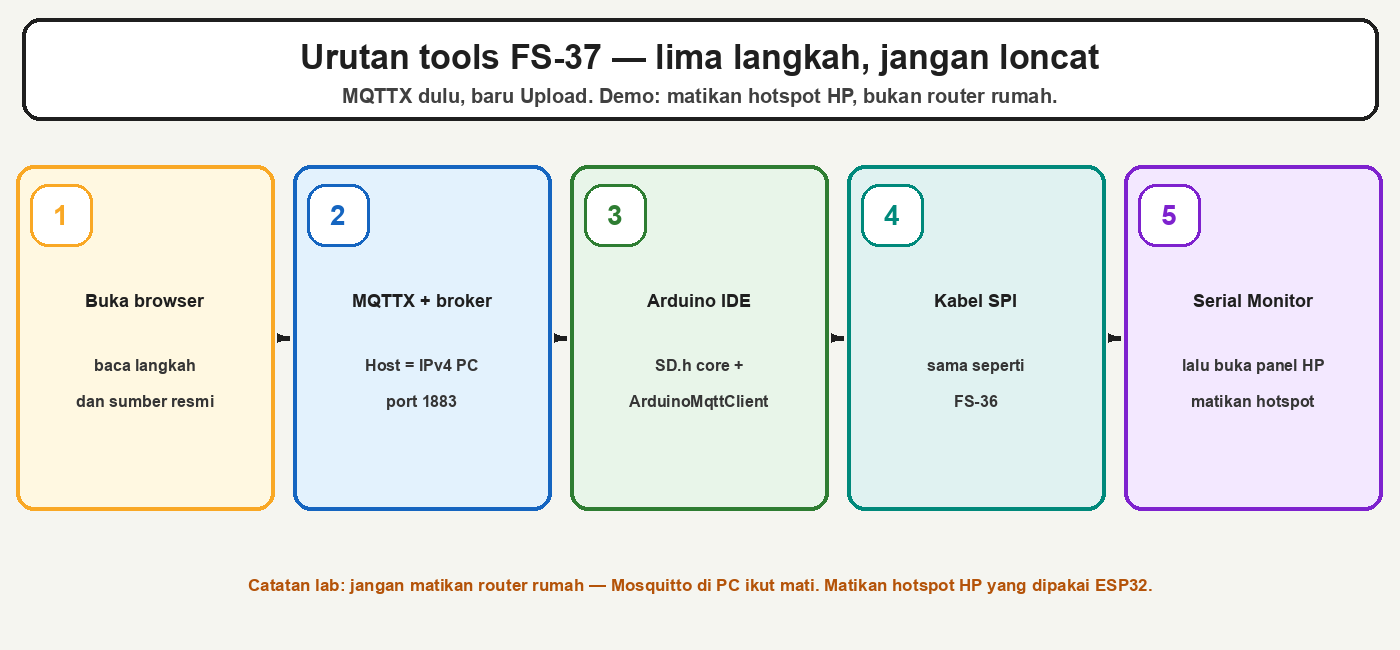
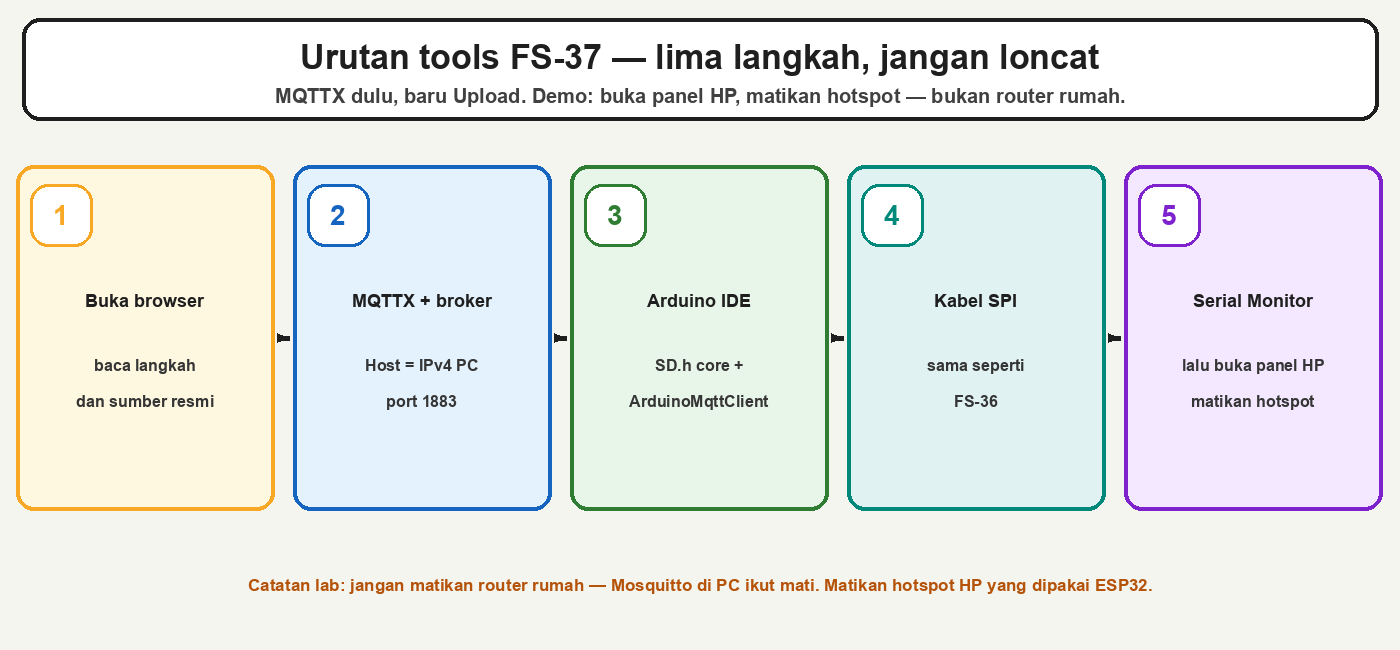
fix(fsiot): align FS-37 Serial JSON and tools-first copy
The Serial illustration now matches the sketch JSON backfill, Terkirim is named as Serial not MQTTX, and the five-step caption opens the phone panel first.

Changed region(s): [[0.1843, 0.1231, 0.7986, 0.1846]]

diff --git a/database/seeders/Article107Seeder.php b/database/seeders/Article107Seeder.php
@@ -316,7 +316,7 @@ class Article107Seeder extends Seeder
     private function body(): string
     {
         $sketch = htmlspecialchars($this->sketch(), ENT_QUOTES, 'UTF-8');
-        $tools = $this->figure('fs37-tools-order.png', 'Urutan lima langkah: browser, MQTTX dan broker, Arduino IDE, kabel SPI, lalu Serial Monitor', '<strong>Urutan meja kerja (lima langkah):</strong> browser → MQTTX + Mosquitto (Host = IPv4 PC) → Arduino IDE → kabel SPI seperti FS-36 → Serial Monitor, lalu matikan hotspot HP. Diagram buatan Koding Indonesia (FS-37).');
+        $tools = $this->figure('fs37-tools-order.png', 'Urutan lima langkah: browser, MQTTX dan broker, Arduino IDE, kabel SPI, lalu Serial Monitor', '<strong>Urutan meja kerja (lima langkah):</strong> browser → MQTTX + Mosquitto (Host = IPv4 PC) → Arduino IDE → kabel SPI seperti FS-36 → Serial Monitor, lalu buka panel HP. Diagram buatan Koding Indonesia (FS-37).');
         $flow = $this->figure('fs37-offline-online.png', 'Alur kiri ke kanan: hotspot putus, pending.csv, hotspot nyala, MQTTX terisi from_sd true', '<strong>Gambar utama — alur.</strong> Baca dari kiri ke kanan: putus → simpan di <code>pending.csv</code> → nyambung → MQTTX terisi. Diagram buatan Koding Indonesia (FS-37).');
         $ram = $this->figure('fs37-ram-vs-sd.png', 'Perbandingan antrian di RAM yang cepat penuh versus antrian di pending.csv', '<strong>RAM kecil. Kartu yang menahan antrian.</strong> Lab ini tidak menumpuk sampel di memori. Diagram buatan Koding Indonesia (FS-37).');
         $pending = $this->figure('fs37-pending-csv.png', 'Dua berkas: pending.csv untuk antrian belum terkirim dan log.csv sebagai arsip', '<strong>Dua berkas.</strong> <code>pending.csv</code> hanya baris yang belum ke broker. <code>log.csv</code> arsip semua sampel. Diagram buatan Koding Indonesia (FS-37).');
@@ -331,11 +331,11 @@ class Article107Seeder extends Seeder
         $cardPhoto = $this->figure('kit-microsd-card.jpg', 'Contoh rupa kartu microSD dan adapter SD plastik untuk slot laptop', '<strong>Contoh rupa kartu saja.</strong> Adapter plastik untuk slot laptop, <strong>bukan</strong> modul SPI. <strong>Jangan menyambungkannya ke pin ESP32.</strong> <strong>Jangan menyalin urutan kaki dari foto.</strong> Sumber: <a href="https://commons.wikimedia.org/wiki/File:2015_Karta_microSD_z_adapterem_SD.jpg" target="_blank" rel="noopener noreferrer">2015 Karta microSD z adapterem SD</a> · Jacek Halicki · Wikimedia Commons · Creative Commons Attribution-Share Alike 4.0.');
         $dhtPhoto = $this->figure('kit-dht22.jpg', 'Contoh rupa modul DHT22 AM2302 dengan pin DAT, VCC, dan GND', '<strong>Contoh rupa sensor.</strong> <strong>Jangan menyalin urutan kaki dari foto.</strong> Wiring tetap VCC → 3V3, DATA atau DAT → GPIO 4, GND → GND. Sumber: <a href="https://commons.wikimedia.org/wiki/File:DHT_22_Sensor.jpg" target="_blank" rel="noopener noreferrer">AM2302 DHT22 Sensor</a> · L293D · Wikimedia Commons · Creative Commons Attribution-Share Alike 4.0.');
         $install = $this->stepsCard([
-            ['title' => 'Buka browser', 'text' => 'Pakai Chrome, Firefox, Edge, atau Safari. Siapkan artikel ini. Jangan Upload sketch dulu.'],
-            ['title' => 'Buka MQTTX setelah broker berjalan', 'text' => 'Mosquitto dulu, seperti FS-34: jendela tetap terbuka dan terlihat <code>1883</code>. Baru kemudian MQTTX. Host = <strong>IPv4 PC</strong> (bukan <code>127.0.0.1</code>), Port <code>1883</code>, subscribe <code>kodingindonesia/fsiot/esp32-meja-01/telemetry</code>.'],
-            ['title' => 'Buka Arduino IDE', 'text' => '<code>SD.h</code> sudah di core ESP32. <code>ArduinoMqttClient</code>, ArduinoJson, dan DHT biasanya sudah ada dari FS-34. Jika Verify mengeluh, klik ikon tiga buku di bilah kiri. Itu satu-satunya jalur yang dipakai hari ini.'],
+            ['title' => 'Buka browser', 'text' => 'Pakai Chrome, Firefox, Edge, atau Safari. Siapkan artikel ini. Jangan tekan Upload di Arduino IDE dulu.'],
+            ['title' => 'Buka MQTTX setelah broker berjalan', 'text' => 'Mosquitto dulu, seperti FS-34: jendela tetap terbuka dan terlihat <code>1883</code>. Baru kemudian MQTTX. Host = <strong>IPv4 PC</strong> (bukan <code>127.0.0.1</code>), Port <code>1883</code>, langganan topik (tombol Subscribe) <code>kodingindonesia/fsiot/esp32-meja-01/telemetry</code>.'],
+            ['title' => 'Buka Arduino IDE', 'text' => '<code>SD.h</code> sudah di core ESP32. <code>ArduinoMqttClient</code>, ArduinoJson, dan DHT biasanya sudah ada dari FS-34. Jika tombol Verify mengeluh, klik ikon tiga buku di bilah kiri. Itu satu-satunya jalur yang dipakai hari ini.'],
             ['title' => 'Periksa kabel SPI dan DHT22', 'text' => 'Sama seperti FS-36. Cabut USB dulu. CS → GPIO 5, SCK → GPIO 18, MISO → GPIO 19, MOSI → GPIO 23, DHT22 DATA → GPIO 4. Jangan colok AC 220V. Relay GPIO 26 <strong>tidak</strong> dipakai hari ini.'],
-            ['title' => 'Upload, Serial Monitor, lalu buka panel HP', 'text' => 'Tools → Serial Monitor, baud 115200. Setelah ada <code>Terkirim:</code> di MQTTX, <strong>buka dulu panel atas HP</strong> (geser dari atas, atau buka Pengaturan). Ketuk Hotspot sampai mati — bukan router rumah, bukan Wi-Fi laptop. Nyalakan lagi, cari <code>Kirim ulang dari kartu:</code>.'],
+            ['title' => 'Upload, Serial Monitor, lalu buka panel HP', 'text' => 'Tools → Serial Monitor, baud 115200. Setelah Serial menulis <code>Terkirim:</code> dan MQTTX menampilkan JSON, <strong>buka dulu panel atas HP</strong> (geser dari atas, atau buka Pengaturan). Ketuk Hotspot sampai mati — bukan router rumah, bukan Wi-Fi laptop. Nyalakan lagi, cari <code>Kirim ulang dari kartu:</code>.'],
         ], '<strong>Cara menguji hari ini:</strong> bukti sukses = MQTTX sempat sepi saat hotspot mati, lalu terisi pesan <code>from_sd: true</code> setelah hotspot nyala, dan Serial menulis <code>Kirim ulang dari kartu:</code>.');
 
         return <<<'HTML'
@@ -360,7 +360,7 @@ class Article107Seeder extends Seeder
 <li><strong>Antrian</strong> — baris yang menunggu giliran ke broker. Di lab ini tempatnya <code>pending.csv</code>.</li>
 <li><strong><code>pending.csv</code></strong> — berkas di kartu: hanya data yang belum terkirim.</li>
 <li><strong><code>log.csv</code></strong> — arsip semua sampel, kolom terakhir <code>mqtt</code> atau <code>kartu</code>.</li>
-<li><strong><code>from_sd</code></strong> — field JSON. <code>false</code> = langsung dari sensor. <code>true</code> = kiriman ulang dari kartu.</li>
+<li><strong><code>from_sd</code></strong> — isian JSON. <code>false</code> = langsung dari sensor. <code>true</code> = kiriman ulang dari kartu.</li>
 <li><strong>Hotspot HP</strong> — Wi-Fi yang dipakai ESP32 hari ini. PC tetap di Wi-Fi rumah agar Mosquitto tidak ikut mati.</li>
 <li><strong>RAM tak terbatas</strong> — kesalahan yang sering terjadi: menumpuk array di memori sampai ESP32 mentok atau reset. Lab ini tidak memakai cara itu.</li>
 </ul>
@@ -402,7 +402,7 @@ listener_allow_anonymous true</code></pre>
 <ol>
 <li>Klik <em>New Connection</em>, nama <code>FS37 store-forward LAN</code>.</li>
 <li>Host = IPv4 PC, Port = <code>1883</code>. Bukan <code>127.0.0.1</code>.</li>
-<li>Connect, lalu subscribe:</li>
+<li>Klik <em>Connect</em>, lalu langganan (Subscribe) ke topik:</li>
 </ol>
 <pre><code>kodingindonesia/fsiot/esp32-meja-01/telemetry</code></pre>
 <p><strong>Hasil yang dicari:</strong> MQTTX berstatus tersambung. Belum ada JSON sampai ESP32 mengirim.</p>
@@ -410,7 +410,7 @@ listener_allow_anonymous true</code></pre>
 <h2>Library Arduino IDE</h2>
 <p><strong>Buka dulu Arduino IDE.</strong> Pilih papan <strong>ESP32</strong>, bukan UNO.</p>
 <p><code>SD.h</code> dan <code>SPI.h</code> sudah termasuk core. <strong>Jangan</strong> memasang library SD untuk papan UNO.</p>
-<p>Library <strong>ArduinoMqttClient</strong>, <strong>ArduinoJson</strong>, dan <strong>DHT sensor library</strong> (Adafruit) biasanya sudah ada dari FS-34. Jika Verify mengeluh file header hilang: di bilah kiri, klik ikon tiga buku (Library Manager). Itu satu-satunya jalur yang dipakai hari ini. Jangan memakai menu lama <em>Tools → Manage Libraries</em>. Cari nama library, papan ESP32, lalu INSTALL jika belum ada.</p>
+<p>Library <strong>ArduinoMqttClient</strong>, <strong>ArduinoJson</strong>, dan <strong>DHT sensor library</strong> (Adafruit) biasanya sudah ada dari FS-34. Jika tombol Verify mengeluh file header hilang: di bilah kiri, klik ikon tiga buku (Library Manager). Itu satu-satunya jalur yang dipakai hari ini. Jangan memakai menu lama <em>Tools → Manage Libraries</em>. Cari nama library, papan ESP32, lalu INSTALL jika belum ada.</p>
 <p>Menu <em>Tools → Serial Monitor</em> tetap untuk melihat tulisan Serial; itu <strong>bukan</strong> Library Manager. Rujukan: <a href="https://docs.arduino.cc/software/ide-v2/tutorials/ide-v2-installing-a-library/" target="_blank" rel="noopener noreferrer">Installing libraries — Arduino IDE 2</a>, Arduino S.r.l., Creative Commons Attribution-Share Alike 4.0. <a href="https://github.com/arduino-libraries/ArduinoMqttClient" target="_blank" rel="noopener noreferrer">ArduinoMqttClient</a>. <a href="https://docs.espressif.com/projects/arduino-esp32/en/latest/api/sd.html" target="_blank" rel="noopener noreferrer">Espressif SD API</a>.</p>
 
 <h2>Pasang kabel — sama seperti FS-36</h2>
@@ -447,7 +447,7 @@ HTML
 HTML
             .$serial.$hotspot.<<<'HTML'
 <ol>
-<li>Verify dan Upload. Buka <strong>Tools → Serial Monitor</strong>, baud <strong>115200</strong>.</li>
+<li>Tekan Verify, lalu Upload. Buka <strong>Tools → Serial Monitor</strong>, baud <strong>115200</strong>.</li>
 <li>Cari <code>Kartu siap. Antrian di /pending.csv</code> dan <code>Antrian hanya di kartu, bukan RAM tak terbatas.</code></li>
 <li>Cari <code>MQTT tersambung. Mengirim antrian kartu.</code> lalu <code>Terkirim:</code>.</li>
 <li>Pastikan MQTTX menampilkan JSON <code>from_sd</code> bernilai <code>false</code>.</li>
@@ -467,7 +467,7 @@ HTML
 <li><strong>ESP32 memakai <code>127.0.0.1</code>.</strong> Ganti IPv4 PC dari <code>ipconfig</code>.</li>
 <li><strong>Kartu tidak terbaca.</strong> CS = GPIO 5, FAT32, GND bersama — seperti FS-36.</li>
 <li><strong>Hotspot memblokir LAN.</strong> Sambungkan PC ke hotspot yang sama, catat IPv4 baru, perbarui conf Mosquitto dan sketch.</li>
-<li><strong>MQTTX Host salah.</strong> Host = IPv4 PC, Port <code>1883</code>, topic persis seperti sketch.</li>
+<li><strong>MQTTX Host salah.</strong> Host = IPv4 PC, Port <code>1883</code>, topik persis seperti di sketch.</li>
 </ol>
 
 <h2 id="fsiot-forward-checklist">Checklist sebelum FS-38</h2>
@@ -534,7 +534,7 @@ HTML;
     private function bodyEn(): string
     {
         $sketch = htmlspecialchars($this->sketch(), ENT_QUOTES, 'UTF-8');
-        $tools = $this->figure('fs37-tools-order.png', 'Five-step order: browser, MQTTX and broker, Arduino IDE, SPI cables, then Serial Monitor', '<strong>Desk order (five steps):</strong> browser → MQTTX + Mosquitto (Host = PC IPv4) → Arduino IDE → SPI cables as in FS-36 → Serial Monitor, then turn off the phone hotspot. Diagram by Koding Indonesia (FS-37).');
+        $tools = $this->figure('fs37-tools-order.png', 'Five-step order: browser, MQTTX and broker, Arduino IDE, SPI cables, then Serial Monitor', '<strong>Desk order (five steps):</strong> browser → MQTTX + Mosquitto (Host = PC IPv4) → Arduino IDE → SPI cables as in FS-36 → Serial Monitor, then open the phone panel. Diagram by Koding Indonesia (FS-37).');
         $flow = $this->figure('fs37-offline-online.png', 'Left-to-right flow: hotspot off, pending.csv, hotspot on, MQTTX fills with from_sd true', '<strong>Main figure — flow.</strong> Read left to right: disconnect → store in <code>pending.csv</code> → reconnect → MQTTX fills. Diagram by Koding Indonesia (FS-37).');
         $ram = $this->figure('fs37-ram-vs-sd.png', 'Comparison of a RAM queue that fills quickly versus a pending.csv queue', '<strong>RAM is small. The card holds the queue.</strong> This lab does not pile samples in memory. Diagram by Koding Indonesia (FS-37).');
         $pending = $this->figure('fs37-pending-csv.png', 'Two files: pending.csv for unsent rows and log.csv as the archive', '<strong>Two files.</strong> <code>pending.csv</code> holds rows not yet on the broker. <code>log.csv</code> archives every sample. Diagram by Koding Indonesia (FS-37).');
@@ -549,11 +549,11 @@ HTML;
         $cardPhoto = $this->figure('kit-microsd-card.jpg', 'Example microSD card and plastic SD adapter for a laptop slot', '<strong>Appearance example only.</strong> The plastic adapter is for a laptop slot, <strong>not</strong> an SPI module. <strong>Do not wire it to ESP32 pins.</strong> <strong>Do not copy pin order from the photo.</strong> Source: <a href="https://commons.wikimedia.org/wiki/File:2015_Karta_microSD_z_adapterem_SD.jpg" target="_blank" rel="noopener noreferrer">2015 Karta microSD z adapterem SD</a> · Jacek Halicki · Wikimedia Commons · Creative Commons Attribution-Share Alike 4.0.');
         $dhtPhoto = $this->figure('kit-dht22.jpg', 'Example DHT22 AM2302 module with DAT, VCC, and GND pins', '<strong>Sensor appearance only.</strong> <strong>Do not copy pin order from the photo.</strong> Wiring is still VCC → 3V3, DATA or DAT → GPIO 4, GND → GND. Source: <a href="https://commons.wikimedia.org/wiki/File:DHT_22_Sensor.jpg" target="_blank" rel="noopener noreferrer">AM2302 DHT22 Sensor</a> · L293D · Wikimedia Commons · Creative Commons Attribution-Share Alike 4.0.');
         $install = $this->stepsCard([
-            ['title' => 'Open a browser', 'text' => 'Use Chrome, Firefox, Edge, or Safari. Keep this guide ready. Do not Upload a sketch yet.'],
-            ['title' => 'Open MQTTX after the broker is running', 'text' => 'Mosquitto first, as in FS-34: keep the window open and look for <code>1883</code>. Only then MQTTX. Host = <strong>PC IPv4</strong> (not <code>127.0.0.1</code>), Port <code>1883</code>, subscribe <code>kodingindonesia/fsiot/esp32-meja-01/telemetry</code>.'],
-            ['title' => 'Open Arduino IDE', 'text' => '<code>SD.h</code> already ships in the ESP32 core. ArduinoMqttClient, ArduinoJson, and DHT are usually already there from FS-34. If Verify complains, click the three-book icon in the left bar. That is the only path used today.'],
+            ['title' => 'Open a browser', 'text' => 'Use Chrome, Firefox, Edge, or Safari. Keep this guide ready. Do not click Upload in Arduino IDE yet.'],
+            ['title' => 'Open MQTTX after the broker is running', 'text' => 'Mosquitto first, as in FS-34: keep the window open and look for <code>1883</code>. Only then MQTTX. Host = <strong>PC IPv4</strong> (not <code>127.0.0.1</code>), Port <code>1883</code>, subscribe (the Subscribe button) to <code>kodingindonesia/fsiot/esp32-meja-01/telemetry</code>.'],
+            ['title' => 'Open Arduino IDE', 'text' => '<code>SD.h</code> already ships in the ESP32 core. ArduinoMqttClient, ArduinoJson, and DHT are usually already there from FS-34. If the Verify button complains, click the three-book icon in the left bar. That is the only path used today.'],
             ['title' => 'Check the SPI and DHT22 wiring', 'text' => 'Same as FS-36. Unplug USB first. CS → GPIO 5, SCK → GPIO 18, MISO → GPIO 19, MOSI → GPIO 23, DHT22 DATA → GPIO 4. Do not connect AC mains. The GPIO 26 relay is <strong>not</strong> used today.'],
-            ['title' => 'Upload, Serial Monitor, then open the phone panel', 'text' => 'Tools → Serial Monitor, baud 115200. After <code>Terkirim:</code> appears in MQTTX, <strong>open the phone panel first</strong> (swipe down, or open Settings). Tap Hotspot off — not the home router, not laptop Wi-Fi. Turn it back on and look for <code>Kirim ulang dari kartu:</code>.'],
+            ['title' => 'Upload, Serial Monitor, then open the phone panel', 'text' => 'Tools → Serial Monitor, baud 115200. After Serial prints <code>Terkirim:</code> and MQTTX shows JSON, <strong>open the phone panel first</strong> (swipe down, or open Settings). Tap Hotspot off — not the home router, not laptop Wi-Fi. Turn it back on and look for <code>Kirim ulang dari kartu:</code>.'],
         ], '<strong>How to test today:</strong> success = MQTTX goes quiet while the hotspot is off, then fills with <code>from_sd: true</code> after the hotspot returns, and Serial prints <code>Kirim ulang dari kartu:</code>.');
 
         return <<<'HTML'
@@ -620,7 +620,7 @@ listener_allow_anonymous true</code></pre>
 <ol>
 <li>Click <em>New Connection</em>, name <code>FS37 store-forward LAN</code>.</li>
 <li>Host = PC IPv4, Port = <code>1883</code>. Not <code>127.0.0.1</code>.</li>
-<li>Connect, then subscribe:</li>
+<li>Click <em>Connect</em>, then subscribe to the topic:</li>
 </ol>
 <pre><code>kodingindonesia/fsiot/esp32-meja-01/telemetry</code></pre>
 <p><strong>What to look for:</strong> MQTTX shows connected. There is no JSON yet until the ESP32 sends.</p>
@@ -628,7 +628,7 @@ listener_allow_anonymous true</code></pre>
 <h2>Arduino IDE libraries</h2>
 <p><strong>Open Arduino IDE first.</strong> Choose an <strong>ESP32</strong> board, not an UNO.</p>
 <p><code>SD.h</code> and <code>SPI.h</code> already ship in the core. <strong>Do not</strong> install an SD library for an UNO board.</p>
-<p><strong>ArduinoMqttClient</strong>, <strong>ArduinoJson</strong>, and Adafruit <strong>DHT sensor library</strong> are usually already there from FS-34. If Verify complains about a missing header: click the three-book icon (Library Manager) in the left bar. That is the only path used today. Do not use the old <em>Tools → Manage Libraries</em> menu. Search the library name, ESP32 board, then INSTALL if needed.</p>
+<p><strong>ArduinoMqttClient</strong>, <strong>ArduinoJson</strong>, and Adafruit <strong>DHT sensor library</strong> are usually already there from FS-34. If the Verify button complains about a missing header: click the three-book icon (Library Manager) in the left bar. That is the only path used today. Do not use the old <em>Tools → Manage Libraries</em> menu. Search the library name, ESP32 board, then INSTALL if needed.</p>
 <p><em>Tools → Serial Monitor</em> is still for Serial text; it is <strong>not</strong> Library Manager. References: <a href="https://docs.arduino.cc/software/ide-v2/tutorials/ide-v2-installing-a-library/" target="_blank" rel="noopener noreferrer">Installing libraries — Arduino IDE 2</a>, Arduino S.r.l., Creative Commons Attribution-Share Alike 4.0. <a href="https://github.com/arduino-libraries/ArduinoMqttClient" target="_blank" rel="noopener noreferrer">ArduinoMqttClient</a>. <a href="https://docs.espressif.com/projects/arduino-esp32/en/latest/api/sd.html" target="_blank" rel="noopener noreferrer">Espressif SD API</a>.</p>
 
 <h2>Wire the cables — same as FS-36</h2>
@@ -665,7 +665,7 @@ HTML
 HTML
             .$serial.$hotspot.<<<'HTML'
 <ol>
-<li>Verify and Upload. Open <strong>Tools → Serial Monitor</strong>, baud <strong>115200</strong>.</li>
+<li>Click Verify, then Upload. Open <strong>Tools → Serial Monitor</strong>, baud <strong>115200</strong>.</li>
 <li>Look for <code>Kartu siap. Antrian di /pending.csv</code> and <code>Antrian hanya di kartu, bukan RAM tak terbatas.</code></li>
 <li>Look for <code>MQTT tersambung. Mengirim antrian kartu.</code> then <code>Terkirim:</code>.</li>
 <li>Confirm MQTTX shows JSON with <code>from_sd</code> equal to <code>false</code>.</li>

diff --git a/scripts/audit-article107.php b/scripts/audit-article107.php
@@ -78,6 +78,9 @@ check107('MQTTX connection name is set', str_contains($body, 'FS37 store-forward
 check107('queue lives on pending.csv not RAM', str_contains($source, 'PENDING_PATH[] = "/pending.csv"') && str_contains($source, 'MAX_FLUSH_PER_LOOP = 5') && str_contains($body, 'bukan RAM tak terbatas') && str_contains($bodyEn, 'not an unbounded RAM array'));
 check107('JSON marks live vs backfill', str_contains($source, 'from_sd') && str_contains($body, 'from_sd: true') && str_contains($body, 'from_sd: false'));
 check107('Serial needles exist', str_contains($source, 'Kartu siap. Antrian di /pending.csv') && str_contains($source, 'Antrian hanya di kartu, bukan RAM tak terbatas.') && str_contains($source, 'MQTT tersambung. Mengirim antrian kartu.') && str_contains($source, 'Terkirim:') && str_contains($source, 'Wi-Fi putus. Disimpan ke pending.csv') && str_contains($source, 'Kirim ulang dari kartu:') && str_contains($source, 'Kartu tidak terbaca. Periksa CS=GPIO 5, format FAT32, dan GND bersama.'));
+check107('Serial illustration shows JSON backfill', str_contains($assets, 'Kirim ulang dari kartu: {"from_sd":true'));
+check107('Terkirim is Serial text not MQTTX', ! str_contains($body, 'Terkirim:</code> di MQTTX') && ! str_contains($bodyEn, 'appears in MQTTX'));
+check107('tools caption opens the phone panel', str_contains($body, 'lalu buka panel HP') && str_contains($bodyEn, 'then open the phone panel'));
 check107('failed mount message is concrete', str_contains($body, 'Kartu tidak terbaca. Periksa CS=GPIO 5, format FAT32, dan GND bersama.'));
 check107('FAT32 is required', str_contains($body, 'FAT32') && str_contains($bodyEn, 'FAT32'));
 check107('official sources are cited', str_contains($body, 'docs.espressif.com/projects/arduino-esp32/en/latest/api/sd.html') && str_contains($body, 'github.com/arduino-libraries/ArduinoMqttClient') && str_contains($body, 'arduinojson.org') && str_contains($body, 'adafruit/DHT-sensor-library') && str_contains($body, 'mqttx.app') && str_contains($body, 'mosquitto.org/man/mosquitto-conf-5.html'));

diff --git a/scripts/gen-fs37-assets.py b/scripts/gen-fs37-assets.py
@@ -72,7 +72,7 @@ print('fs37-cover-forward.webp', image.size)
 # Tools order
 image = Image.new('RGB', (1400, 650), '#f5f5f0')
 draw = ImageDraw.Draw(image)
-header(draw, 1400, 'Urutan tools FS-37 — lima langkah, jangan loncat', 'MQTTX dulu, baru Upload. Demo: matikan hotspot HP, bukan router rumah.')
+header(draw, 1400, 'Urutan tools FS-37 — lima langkah, jangan loncat', 'MQTTX dulu, baru Upload. Demo: buka panel HP, matikan hotspot — bukan router rumah.')
 steps = [
     ('1', 'Buka browser', 'baca langkah\ndan sumber resmi', '#fff8e1', '#f9a825'),
     ('2', 'MQTTX + broker', 'Host = IPv4 PC\nport 1883', '#e3f2fd', '#1565c0'),
@@ -178,7 +178,7 @@ lines = [
     ('#dbeafe', '#1d4ed8', 'MQTT tersambung. Mengirim antrian kartu.'),
     ('#ecfdf5', '#166534', 'Terkirim: {"from_sd":false,"temperature_c":27.4}'),
     ('#fff7ed', '#c2410c', 'Wi-Fi putus. Disimpan ke pending.csv: 15123,27.6'),
-    ('#ecfdf5', '#166534', 'Kirim ulang dari kartu: 15123,27.6'),
+    ('#ecfdf5', '#166534', 'Kirim ulang dari kartu: {"from_sd":true,"temperature_c":27.6}'),
 ]
 for index, (fill, color, line) in enumerate(lines):
     top = 230 + index * 62
